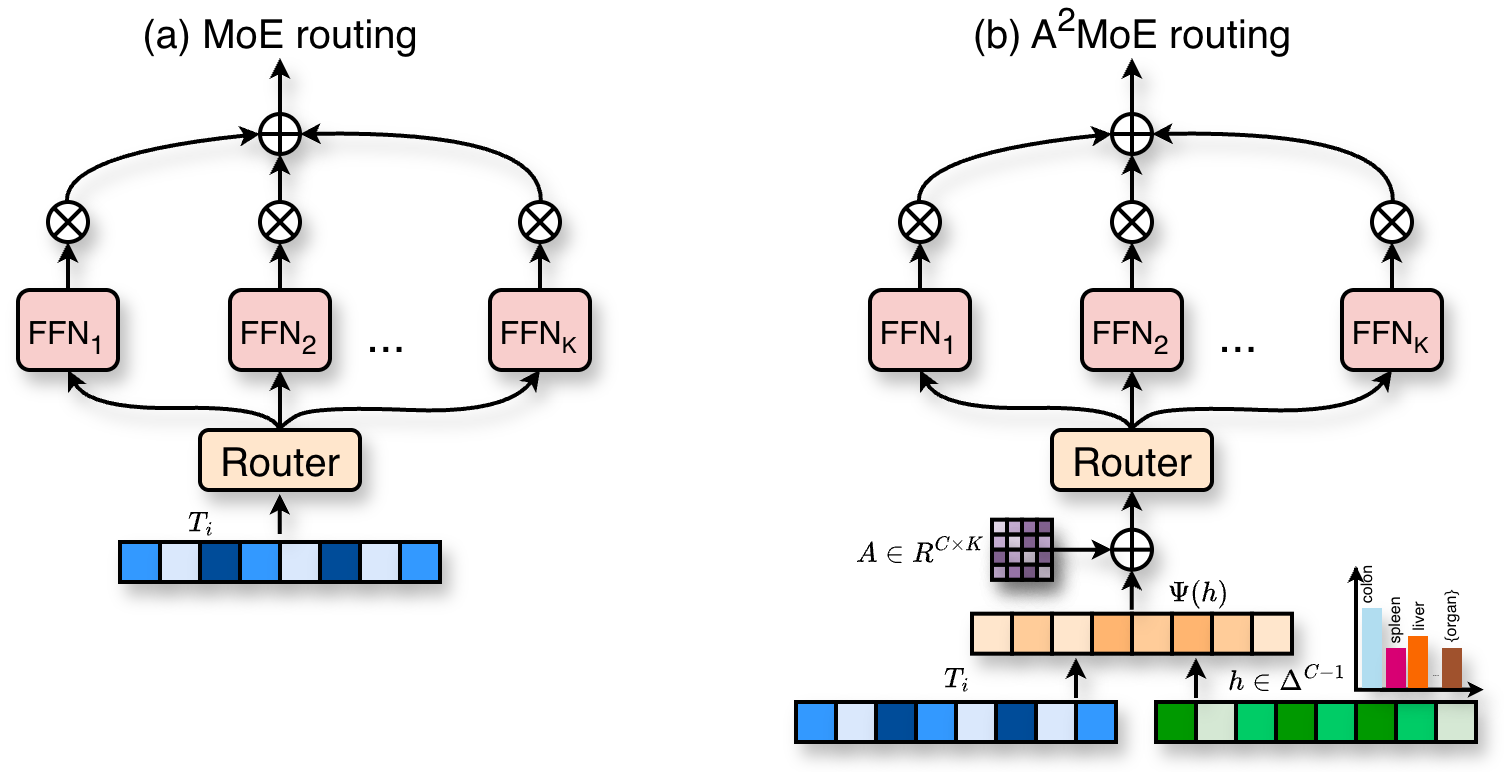
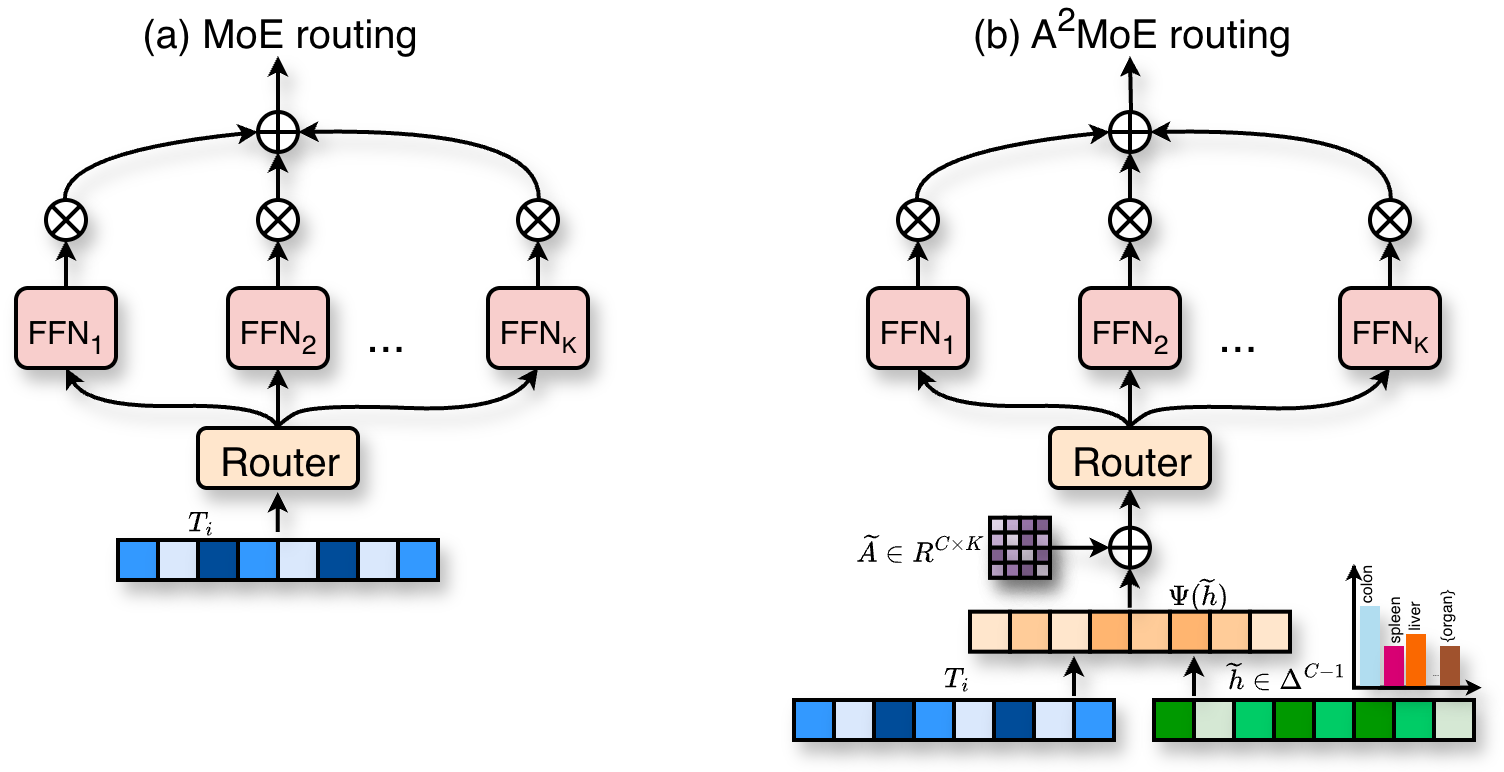
update WACV

diff --git a/index.html b/index.html
@@ -60,6 +60,32 @@
             </tr>
           </tbody></table>
           <table style="width:100%;border:0px;border-spacing:0px 10px;border-collapse:separate;margin-right:auto;margin-left:auto;"><tbody>
+  <!-- 2027 - MedHiVE -->
+  <tr class="paper-row first-author" onmouseout="" onmouseover="">
+      <td style="padding:20px;width:40%;vertical-align:middle;text-align:center">
+        <img src="images/MedHiVE_teaser.png" style="width:100%; max-width:340px; height:auto;" alt="AAMoE"
+             onerror="this.onerror=null;this.src='images/placeholder_pub.svg';">
+      </td>
+      <td style="padding:20px;width:60%;vertical-align:middle">
+      <papertitle><strong>Multimodal Hierarchical Mixture-of-Experts for 3D Medical Vision-Language Modeling</strong></papertitle>
+      <br>
+      <a href="https://scholar.google.com/citations?user=tTPBMfsAAAAJ" target="_blank">Gizem Mertn</a>,
+      <strong>Szymon Płotka</strong>,
+      <a href="https://scholar.google.com/citations?user=NftgL6gAAAAJ" target="_blank">Pedro R. A. S. Bassi</a>,
+      <a href="https://scholar.google.com/citations?user=tpNZM2YAAAAJ" target="_blank">Wenxuan Li</a>,
+      <a href="https://scholar.google.com/citations?user=JVOeczAAAAAJ" target="_blank">Zongwei Zhou</a>,
+      <a href="" target="_blank">Jarosław B. Ćwikła</a>,
+      <a href="https://scholar.google.com/citations?user=3QheHgMAAAAJ" target="_blank">Arkadiusz Sitek</a>
+      <a href="https://scholar.google.com/citations?user=hltmGf0AAAAJ" target="_blank">Ewa Szczurek</a>,
+      <br>
+      <em>Winter Conference on Applications of Computer Vision (WACV)</em>, 2027
+      <br>
+      <a href="https://arxiv.org/abs/2611.10960" target="_blank">Paper</a> /
+      <a href="https://github.com/gmum/A2MoE" target="_blank">Code</a>
+      <p></p>
+      <p>We introduce MedHiVE, which combines hierarchical vision-language Soft Mixture-of-Experts with contrastive learning to jointly model fine-grained anatomy and global scan context. .</p>
+    </td>
+  </tr>
   <!-- 2026 - AAMoE -->
   <tr class="paper-row first-author" onmouseout="" onmouseover="">
       <td style="padding:20px;width:40%;vertical-align:middle;text-align:center">
@@ -84,10 +110,10 @@
       <br>
       <em>Advances in Neural Information Processing Systems (NeurIPS)</em>, 2026
       <br>
-      <a href="" target="_blank">Paper</a> /
-      <a href="" target="_blank">Code</a>
+      <a href="https://arxiv.org/abs/2611.10960" target="_blank">Paper</a> /
+      <a href="https://github.com/gmum/A2MoE" target="_blank">Code</a>
       <p></p>
-      <p>We propose A<sup>2</sup>MoE, a framework incorporating anatomical inductive biases through two components: (1) a Histogram Representation Router (HRR) that guides expert specialization using global context and anatomy histograms; and (2) an inference-time Organ-Query Multi-Scale Projector (OQMSP) that extracts organ-level embeddings via learnable queries for annotation-free alignment.</p>
+      <p>We propose A<sup>2</sup>MoE, a framework incorporating anatomical inductive biases through two components: (1) a Histogram Representation Router (HRR) that guides expert specialization using global context and anatomy histograms; and (2) an Organ-Query Multi-Scale Projector (OQMSP) that extracts organ-level embeddings via learnable queries for annotation-free alignment.</p>
     </td>
   </tr>
   <!-- 2025 — Merlin Plus -->
